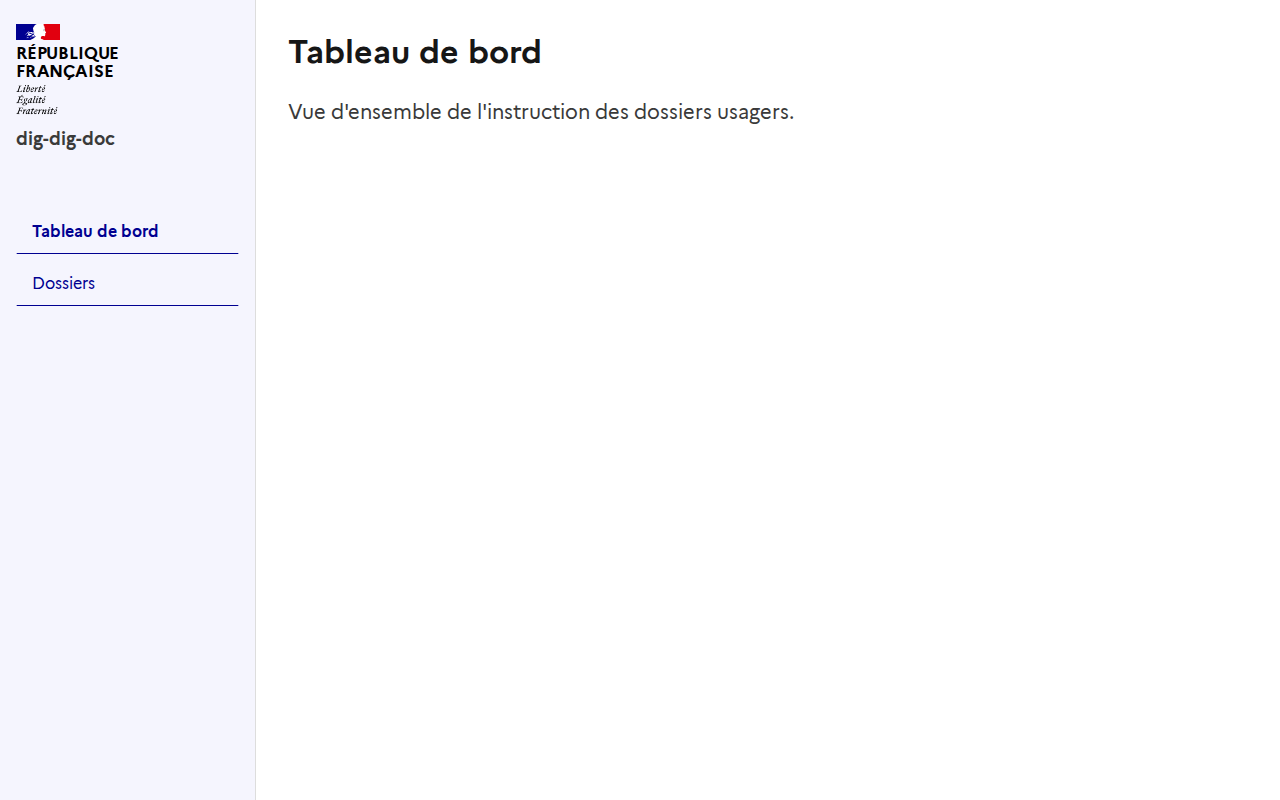
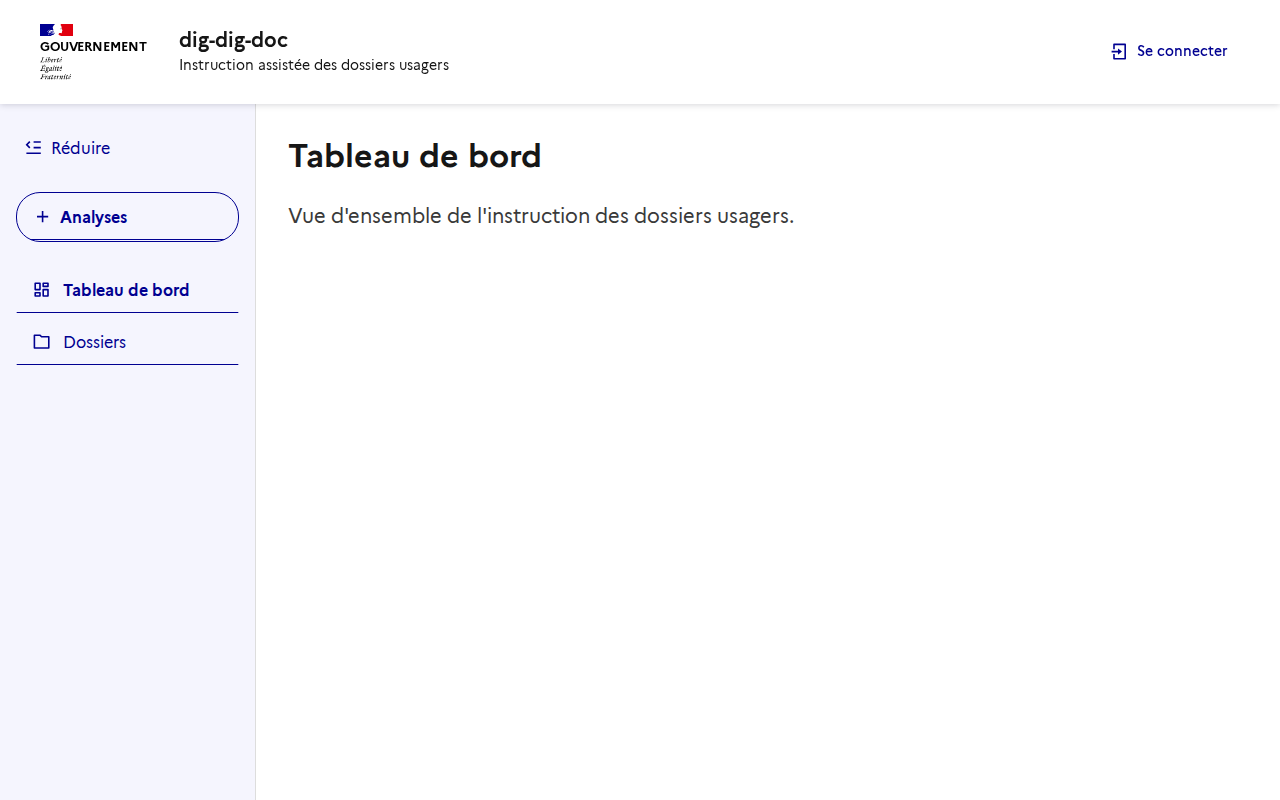
feat(frontend): bandeau avec profil connexion/déconnexion et sidebar collapsable
Sépare la navigation en deux : un bandeau DSFR en haut (titre du
service, profil avec connexion/déconnexion via quickLinks) sans la
sidebar, et la sidebar en dessous avec un bouton "Analyses" en haut de
liste dans le style ChatGPT (pill, mis en avant) suivi de la nav.

La sidebar est repliable (bouton Réduire/Déployer) : en mode réduit,
elle ne garde que les icônes.

L'état de connexion (useAuth) est un stub local en attendant le
câblage Keycloak (#3).

diff --git a/frontend/src/App.vue b/frontend/src/App.vue
@@ -1,66 +1,152 @@
 <script setup lang="ts">
+import { computed, ref } from "vue";
 import { RouterLink, RouterView, useRoute } from "vue-router";
 
+import { useAuth } from "@/composables/useAuth";
+
 const route = useRoute();
+const { isAuthenticated, userName, login, logout } = useAuth();
+
+const isSidebarCollapsed = ref(false);
+const toggleSidebar = () => {
+  isSidebarCollapsed.value = !isSidebarCollapsed.value;
+};
 
 const navItems = [
-  { to: "/", label: "Tableau de bord" },
-  { to: "/dossiers", label: "Dossiers" },
+  { to: "/", label: "Tableau de bord", icon: "ri-dashboard-line" },
+  { to: "/dossiers", label: "Dossiers", icon: "ri-folder-line" },
 ];
+
+const quickLinks = computed(() =>
+  isAuthenticated.value
+    ? [
+        { label: userName.value, icon: "ri-account-circle-line" },
+        { label: "Se déconnecter", icon: "ri-logout-box-r-line", button: true, onClick: logout },
+      ]
+    : [{ label: "Se connecter", icon: "ri-login-box-line", button: true, onClick: login }],
+);
 </script>
 
 <template>
   <div class="app-shell">
-    <aside class="app-shell__sidebar" aria-label="Navigation principale">
-      <div class="app-shell__brand">
-        <p class="fr-logo">
-          République
-          <br />Française
-        </p>
-        <p class="app-shell__title">dig-dig-doc</p>
-      </div>
-      <nav class="app-shell__nav">
-        <RouterLink
-          v-for="item in navItems"
-          :key="item.to"
-          :to="item.to"
-          class="app-shell__nav-link"
-          :class="{ 'app-shell__nav-link--active': route.path === item.to }"
+    <DsfrHeader
+      service-title="dig-dig-doc"
+      service-description="Instruction assistée des dossiers usagers"
+      :quick-links="quickLinks"
+      :show-search="false"
+    />
+    <div class="app-shell__body">
+      <aside
+        class="app-shell__sidebar"
+        :class="{ 'app-shell__sidebar--collapsed': isSidebarCollapsed }"
+        aria-label="Navigation principale"
+      >
+        <button
+          type="button"
+          class="app-shell__collapse-toggle"
+          :aria-expanded="!isSidebarCollapsed"
+          :title="isSidebarCollapsed ? 'Déployer la navigation' : 'Réduire la navigation'"
+          @click="toggleSidebar"
         >
-          {{ item.label }}
+          <VIcon :name="isSidebarCollapsed ? 'ri-menu-unfold-line' : 'ri-menu-fold-line'" />
+          <span class="app-shell__collapse-toggle-label">Réduire</span>
+        </button>
+
+        <RouterLink to="/analyses" class="app-shell__new-analysis" :title="isSidebarCollapsed ? 'Analyses' : undefined">
+          <VIcon name="ri-add-line" />
+          <span class="app-shell__label">Analyses</span>
         </RouterLink>
-      </nav>
-    </aside>
-    <main class="app-shell__content">
-      <RouterView />
-    </main>
+
+        <nav class="app-shell__nav">
+          <RouterLink
+            v-for="item in navItems"
+            :key="item.to"
+            :to="item.to"
+            class="app-shell__nav-link"
+            :class="{ 'app-shell__nav-link--active': route.path === item.to }"
+            :title="isSidebarCollapsed ? item.label : undefined"
+          >
+            <VIcon :name="item.icon" />
+            <span class="app-shell__label">{{ item.label }}</span>
+          </RouterLink>
+        </nav>
+      </aside>
+      <main class="app-shell__content">
+        <RouterView />
+      </main>
+    </div>
   </div>
 </template>
 
 <style scoped>
 .app-shell {
   display: flex;
+  flex-direction: column;
   min-height: 100vh;
+}
+
+.app-shell__body {
+  display: flex;
+  flex: 1;
 }
 
 .app-shell__sidebar {
   display: flex;
   flex-direction: column;
+  gap: 1.5rem;
   width: 16rem;
   flex-shrink: 0;
   background-color: var(--background-alt-blue-france);
   border-right: 1px solid var(--border-default-grey);
   padding: 1.5rem 1rem;
+  transition: width 0.15s ease;
+  overflow: hidden;
 }
 
-.app-shell__brand {
-  margin-bottom: 2rem;
+.app-shell__sidebar--collapsed {
+  width: 4.5rem;
+  padding-left: 0.75rem;
+  padding-right: 0.75rem;
 }
 
-.app-shell__title {
-  margin-top: 0.75rem;
+.app-shell__collapse-toggle {
+  display: flex;
+  align-items: center;
+  gap: 0.5rem;
+  background: none;
+  border: none;
+  color: var(--text-action-high-blue-france);
+  cursor: pointer;
+  padding: 0.5rem;
+  align-self: flex-start;
+}
+
+.app-shell__sidebar--collapsed .app-shell__collapse-toggle {
+  align-self: center;
+}
+
+/* ChatGPT-style pill button: full width, rounded, sits above the nav list. */
+.app-shell__new-analysis {
+  display: flex;
+  align-items: center;
+  gap: 0.5rem;
+  padding: 0.75rem 1rem;
+  border-radius: 1.5rem;
+  border: 1px solid var(--border-action-high-blue-france);
+  color: var(--text-action-high-blue-france);
   font-weight: bold;
-  font-size: 1.125rem;
+  text-decoration: none;
+  transition: background-color 0.15s ease;
+  white-space: nowrap;
+}
+
+.app-shell__sidebar--collapsed .app-shell__new-analysis {
+  justify-content: center;
+  padding: 0.75rem;
+}
+
+.app-shell__new-analysis:hover {
+  background-color: var(--background-action-low-blue-france-hover);
 }
 
 .app-shell__nav {
@@ -70,10 +156,19 @@ const navItems = [
 }
 
 .app-shell__nav-link {
+  display: flex;
+  align-items: center;
+  gap: 0.75rem;
   padding: 0.75rem 1rem;
   border-radius: 0.25rem;
   color: var(--text-action-high-blue-france);
   text-decoration: none;
+  white-space: nowrap;
+}
+
+.app-shell__sidebar--collapsed .app-shell__nav-link {
+  justify-content: center;
+  padding: 0.75rem;
 }
 
 .app-shell__nav-link:hover {
@@ -83,6 +178,11 @@ const navItems = [
 .app-shell__nav-link--active {
   background-color: var(--background-action-selected-blue-france);
   font-weight: bold;
+}
+
+.app-shell__sidebar--collapsed .app-shell__label,
+.app-shell__sidebar--collapsed .app-shell__collapse-toggle-label {
+  display: none;
 }
 
 .app-shell__content {

diff --git a/frontend/src/composables/useAuth.ts b/frontend/src/composables/useAuth.ts
@@ -1,0 +1,24 @@
+import { computed, ref } from "vue";
+
+// Placeholder local auth state until the backend's Keycloak login flow
+// (issue #3) is wired up: toggles a fake session so the header/profile UI
+// can be built and reviewed independently.
+const isAuthenticated = ref(false);
+const userName = ref("Agent instructeur");
+
+export function useAuth() {
+  const login = () => {
+    isAuthenticated.value = true;
+  };
+
+  const logout = () => {
+    isAuthenticated.value = false;
+  };
+
+  return {
+    isAuthenticated: computed(() => isAuthenticated.value),
+    userName: computed(() => userName.value),
+    login,
+    logout,
+  };
+}

diff --git a/frontend/src/router/index.ts b/frontend/src/router/index.ts
@@ -1,5 +1,6 @@
 import { createRouter, createWebHistory } from "vue-router";
 
+import AnalysesPage from "@/pages/AnalysesPage.vue";
 import DashboardPage from "@/pages/DashboardPage.vue";
 import DossiersPage from "@/pages/DossiersPage.vue";
 
@@ -8,5 +9,6 @@ export const router = createRouter({
   routes: [
     { path: "/", name: "dashboard", component: DashboardPage },
     { path: "/dossiers", name: "dossiers", component: DossiersPage },
+    { path: "/analyses", name: "analyses", component: AnalysesPage },
   ],
 });

diff --git a/frontend/src/pages/AnalysesPage.vue b/frontend/src/pages/AnalysesPage.vue
@@ -1,0 +1,11 @@
+<script setup lang="ts"></script>
+
+<template>
+  <div>
+    <h1 class="fr-h2">Nouvelle analyse</h1>
+    <p class="fr-text--lead">
+      Déposer un document pour lancer le typage, l'extraction d'entités et les
+      contrôles de cohérence.
+    </p>
+  </div>
+</template>
